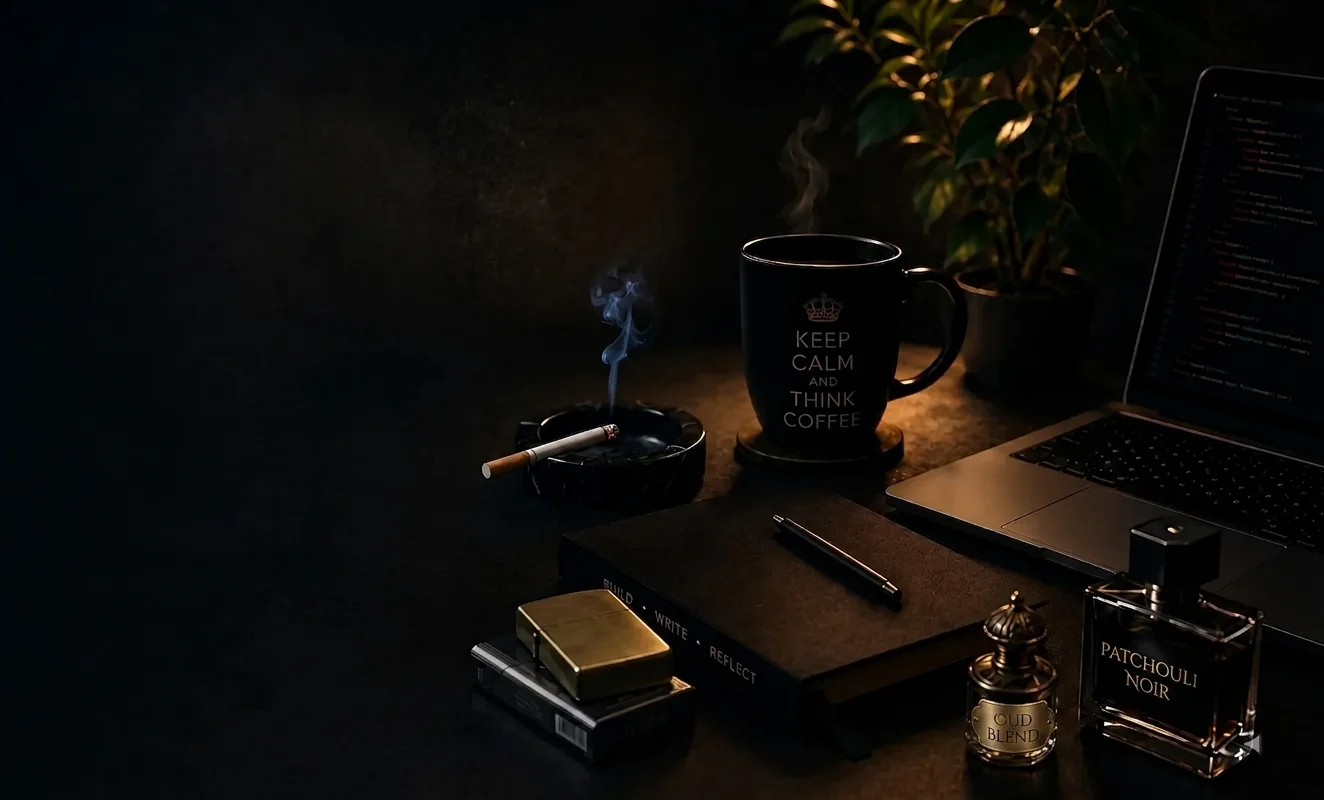
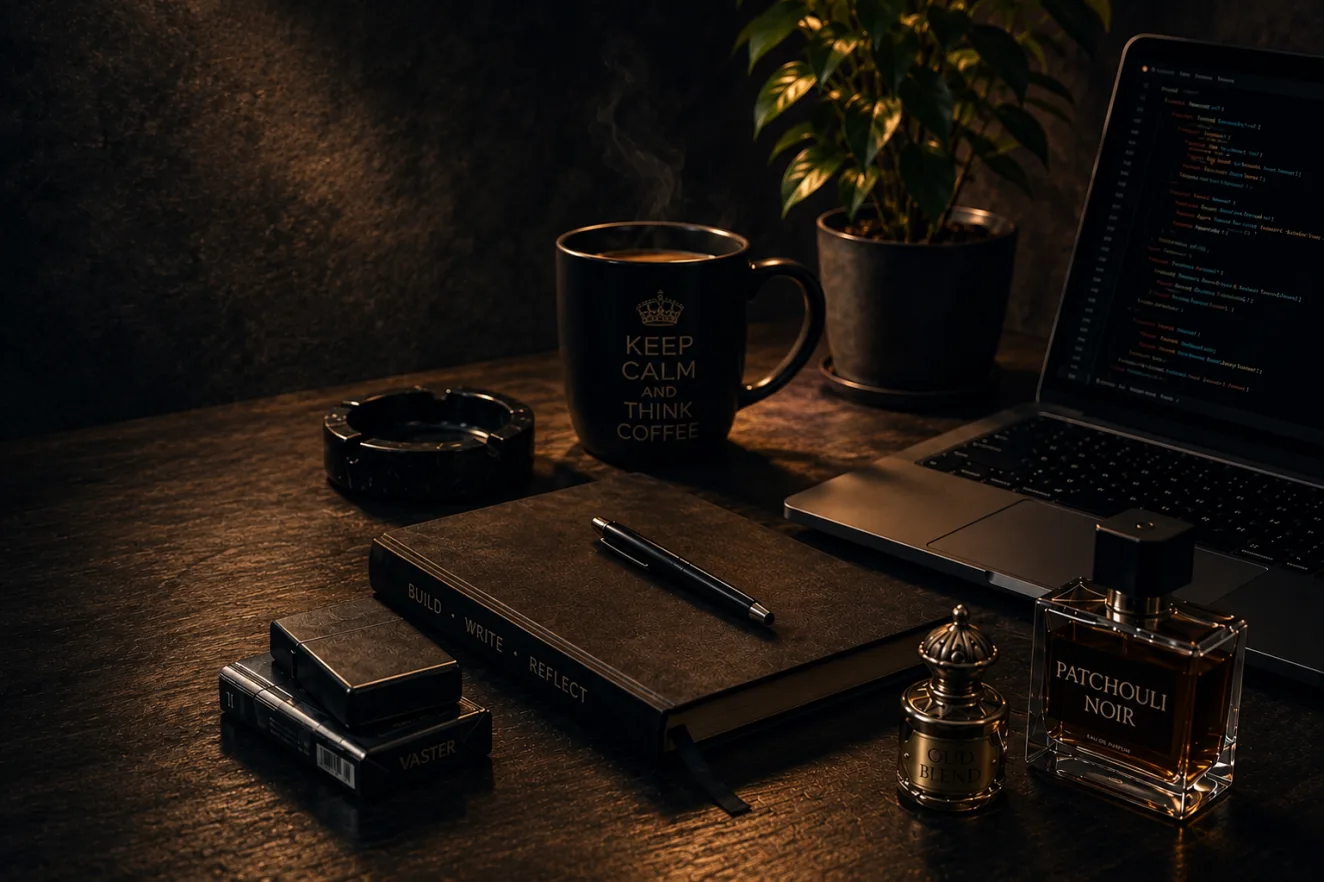
Hero: swap to branded "KEEP CALM" desk scene; lighten veil
New desk photo with the "KEEP CALM AND THINK COFFEE" mug, perfume
bottles and laptop, no cigarette. Lighten both dark + light veils
since the empty dark left third no longer needs heavy coverage to
seat the headline.

diff --git a/assets/css/main.css b/assets/css/main.css
@@ -56,12 +56,15 @@
   --eyebrow: var(--accent);
   --shadow: 0 1px 0 rgba(255, 255, 255, 0.03), 0 18px 50px -22px rgba(0, 0, 0, 0.85);
   --glow: 0 0 0 1px rgba(94, 230, 208, 0.18), 0 0 34px -10px rgba(94, 230, 208, 0.45);
-  /* The photo's left is near-black, so a black veil shows no gradient. Layer a
-     faint pale-mint tint over the directional darkening — same left→right fade
-     and stop positions as the light veil, so it covers the same area. */
+  /* The photo's left third is genuinely dark, empty desk — no clutter to hide
+     (this hero shot has no cigarette/ashtray) — so the veil is light: just
+     enough left→right darkening to seat the headline and continue the sidebar
+     into the photo, fading out by ~80% to let the mug, plant, laptop and
+     bottles read at full strength. A faint pale-mint tint warms the near-black
+     left so the black veil still shows a gradient. */
   --hero-veil:
-    linear-gradient(90deg, rgba(205, 246, 240, 0.12) 0%, rgba(205, 246, 240, 0.06) 16%, rgba(205, 246, 240, 0) 46%),
-    linear-gradient(90deg, rgba(16, 18, 22, 0.78) 0%, rgba(16, 18, 22, 0.46) 16%, rgba(16, 18, 22, 0.2) 46%, rgba(16, 18, 22, 0) 100%);
+    linear-gradient(90deg, rgba(205, 246, 240, 0.08) 0%, rgba(205, 246, 240, 0.04) 20%, rgba(205, 246, 240, 0) 48%),
+    linear-gradient(90deg, rgba(16, 18, 22, 0.68) 0%, rgba(16, 18, 22, 0.44) 22%, rgba(16, 18, 22, 0.2) 45%, rgba(16, 18, 22, 0.05) 65%, rgba(16, 18, 22, 0) 80%);
   --img-filter: none; /* photos render in full colour */
   /* About portrait: slightly richer + a touch cooler so the studio photo
      sits into the cool slate without going flat. */
@@ -123,7 +126,10 @@
   /* Left edge starts at the sidebar cream (--bg-2 #ece9e1, near-opaque) so the
      sidebar→hero seam disappears like dark mode, then warms to sand within the
      first slice so most of the hero still reads warm, and opens to the photo. */
-  --hero-veil: linear-gradient(90deg, rgba(228, 222, 209, 0.6) 0%, rgba(226, 214, 194, 0.34) 16%, rgba(222, 209, 188, 0.2) 46%, rgba(222, 209, 188, 0.1) 62%, rgba(222, 209, 188, 0) 82%);
+  /* Light, fading out by ~80%: the hero shot's left is empty desk with no
+     clutter to soften, so the veil only needs to seat the headline and hide
+     the sidebar→hero seam before opening to the photo. */
+  --hero-veil: linear-gradient(90deg, rgba(228, 222, 209, 0.58) 0%, rgba(226, 214, 194, 0.32) 18%, rgba(222, 209, 188, 0.16) 42%, rgba(222, 209, 188, 0.05) 62%, rgba(222, 209, 188, 0) 80%);
   --img-filter: none; /* photos render in full colour */
   /* About portrait: lift the near-black studio background toward a softer warm
      charcoal so it isn't a harsh black box on the cream. Low contrast raises

diff --git a/template-parts/section-hero.php b/template-parts/section-hero.php
@@ -13,7 +13,7 @@ if ( ! defined( 'ABSPATH' ) ) {
 	<div class="hero__bg">
 		<img
 			src="<?php echo esc_url( add_query_arg( 'v', the_alpha_asset_ver( 'assets/img/hero.webp' ), THE_ALPHA_URI . '/assets/img/hero.webp' ) ); ?>"
-			alt="" width="1324" height="800" fetchpriority="high" decoding="async">
+			alt="" width="1324" height="882" fetchpriority="high" decoding="async">
 	</div>
 
 	<div class="hero__inner">
